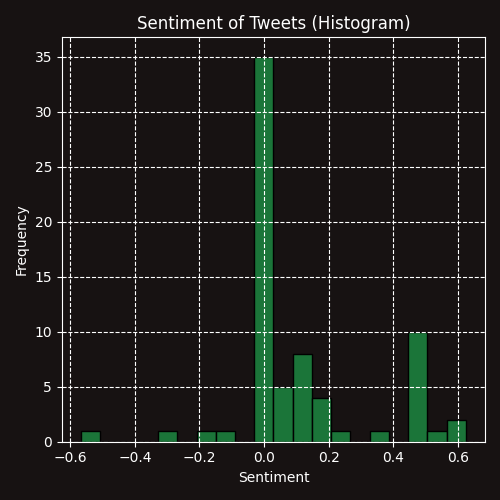
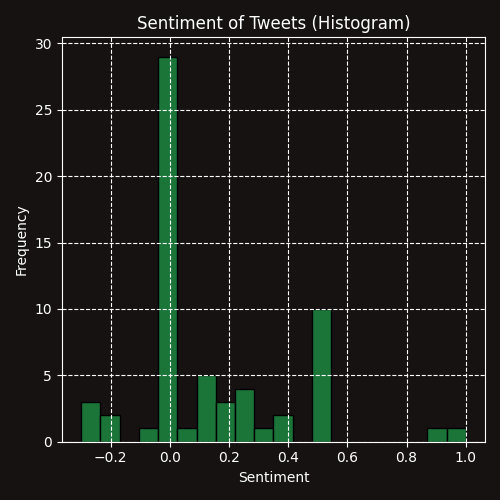
Fixed Search Page API (yfinance API not working properly)

diff --git a/templates/search.html b/templates/search.html
@@ -175,12 +175,12 @@
   }
 
   function drawSentimentChart() {
-    {% if data != None %}
+    {% if sentimentData.__len__() %}
     // Define the chart to be drawn.
     var data = google.visualization.arrayToDataTable([
       ['Sentiment', 'Frequency'],
       {% for i in range(sentimentData.__len__()) %}
-  ['{{ i }}', {{ sentimentData.iloc[i]['Sentiment'] }}],
+  ['{{ i }}', {{ sentimentData[i]['Sentiment'] }}],
     {% endfor %}
     ]);
 

diff --git a/app.py b/app.py
@@ -28,19 +28,19 @@ def search():
   finance_analysis = {}
   news = None
   tweets = None
-  sentimentData = None
+  sentimentData = []
   averageSentiment = None
   if searchForm.ticker.data:
     try:
       ticker = searchForm.ticker.data.upper()
       prevAggs = getStockData(ticker)
       data = [prevAggs]
-      pe_ratio, eps = get_pe_and_eps(ticker)
-      finance_analysis = {'PE Ratio (TTM)': pe_ratio, 'EPS (TTM)': eps, 'Composite Indicator': get_composite_score(ticker)}
+      # pe_ratio, eps = get_pe_and_eps(ticker)
+      # finance_analysis = {'PE Ratio (TTM)': pe_ratio, 'EPS (TTM)': eps, 'Composite Indicator': get_composite_score(ticker)}
       news = get_news(ticker)
       tweets, sentimentData, averageSentiment  = getSocialStats(ticker)
       averageSentiment = round(averageSentiment, 2)
-      return render_template('search.html', data=data, searchForm=searchForm, ticker=ticker, finance_analysis=finance_analysis, news=news, tweets=tweets, sentimentData=sentimentData, averageSentiment=averageSentiment)
+      return render_template('search.html', data=data, searchForm=searchForm, ticker=ticker, finance_analysis=finance_analysis, news=news, tweets=tweets, sentimentData=list(sentimentData), averageSentiment=averageSentiment)
     except Exception as e:
       print(e)
       flash(f'Ticker "{searchForm.ticker.data.upper()}" not found.', 'error')
